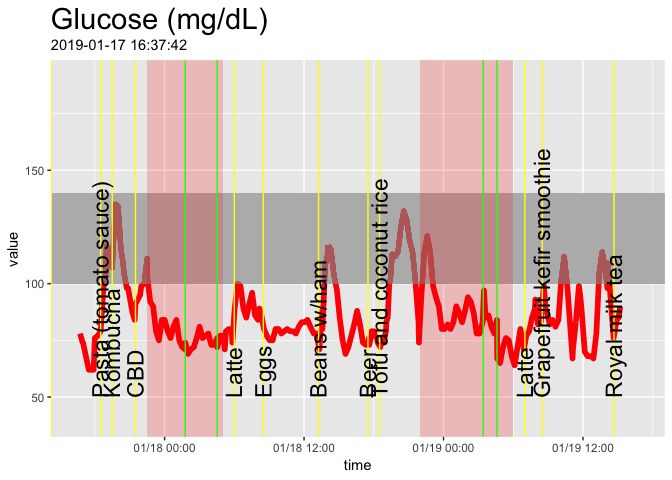
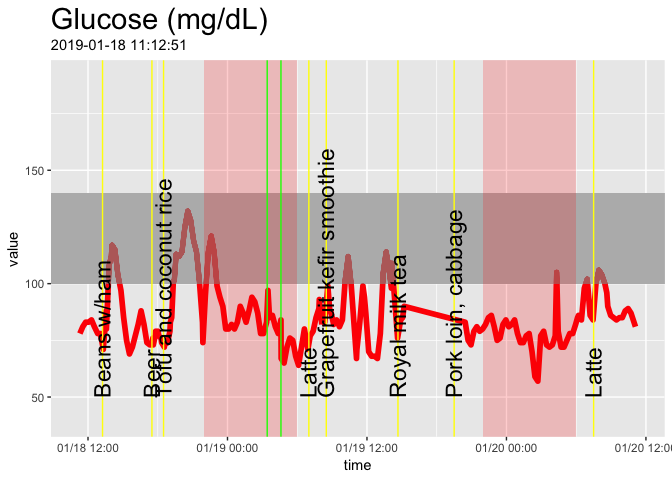
Updated with new data

diff --git a/README.md b/README.md
@@ -1,7 +1,9 @@
 Continuous Glucose Monitoring with Freestyle Libre
 ================
 Richard Sprague
-2019-01-29
+2019-01-20
+
+See [Continous Glucose Monitoring: Start Here](http://richardsprague.com/notes/continuous-glucose-monitoring/)
 
 I've been tracking my glucose levels 24 x 7 using a continuous glucose monitor from Abbot Labs called the [Freestyle Libre](https://www.freestylelibre.us/index.html).
 
@@ -193,6 +195,7 @@ Here's how I look when eating specific foods:
 | Latte23      |         113|          74|      39|
 | Latte24      |         100|          74|      26|
 | Latte25      |          99|          71|      28|
+| Latte26      |         106|          84|      22|
 
 ![](README_files/figure-markdown_github/unnamed-chunk-7-16.png)
 
@@ -229,7 +232,7 @@ glucose %>% filter(apply(sapply(glucose$time,
     ## ------------------------------------------------------------------------- 
     ## Describe . (tbl_df, tbl, data.frame):
     ## 
-    ## data.frame:  742 obs. of  1 variables
+    ## data.frame:  775 obs. of  1 variables
     ## 
     ##   Nr  ColName  Class    NAs  Levels
     ##   1   value    numeric  .          
@@ -239,14 +242,14 @@ glucose %>% filter(apply(sapply(glucose$time,
     ## Glucose Values While Sleeping
     ## 
     ##   length       n    NAs  unique     0s   mean  meanCI
-    ##      742     742      0      80      0  79.98   78.95
-    ##           100.0%   0.0%           0.0%          81.00
+    ##      775     775      0      80      0  79.87   78.88
+    ##           100.0%   0.0%           0.0%          80.86
     ##                                                      
     ##      .05     .10    .25  median    .75    .90     .95
-    ##    54.00   62.00  72.00   81.00  88.00  97.00  102.00
+    ##    54.00   62.40  72.00   81.00  87.50  97.00  102.00
     ##                                                      
     ##    range      sd  vcoef     mad    IQR   skew    kurt
-    ##    92.00   14.22   0.18   11.86  16.00  -0.15    0.89
+    ##    92.00   14.02   0.18   10.38  15.50  -0.13    0.97
     ##                                                      
     ## lowest : 40.0 (3), 41.0 (4), 42.0 (3), 43.0 (2), 44.0
     ## highest: 120.0, 121.0, 125.0, 131.0, 132.0
@@ -264,7 +267,7 @@ glucose %>% filter(apply(sapply(glucose$time,
     ## ------------------------------------------------------------------------- 
     ## Describe . (tbl_df, tbl, data.frame):
     ## 
-    ## data.frame:  2807 obs. of  1 variables
+    ## data.frame:  2869 obs. of  1 variables
     ## 
     ##   Nr  ColName  Class    NAs        Levels
     ##   1   value    numeric  17 (0.6%)        
@@ -274,14 +277,14 @@ glucose %>% filter(apply(sapply(glucose$time,
     ## Glucose Values While Awake
     ## 
     ##   length      n    NAs  unique      0s    mean  meanCI
-    ##    2'807  2'790     17     120       0   91.20   90.48
-    ##           99.4%   0.6%            0.0%           91.92
+    ##    2'869  2'852     17     120       0   91.00   90.30
+    ##           99.4%   0.6%            0.0%           91.71
     ##                                                       
     ##      .05    .10    .25  median     .75     .90     .95
-    ##    63.00  69.00  79.00   90.00  102.00  117.00  127.00
+    ##    63.00  69.00  79.00   89.00  101.00  116.00  127.00
     ##                                                       
     ##    range     sd  vcoef     mad     IQR    skew    kurt
-    ##   151.00  19.38   0.21   16.31   23.00    0.57    1.04
+    ##   151.00  19.26   0.21   16.31   22.00    0.59    1.08
     ##                                                       
     ## lowest : 40.0 (3), 41.0 (4), 42.0 (3), 43.0 (2), 44.0 (5)
     ## highest: 166.0 (2), 172.0, 187.0, 188.0, 191.0
